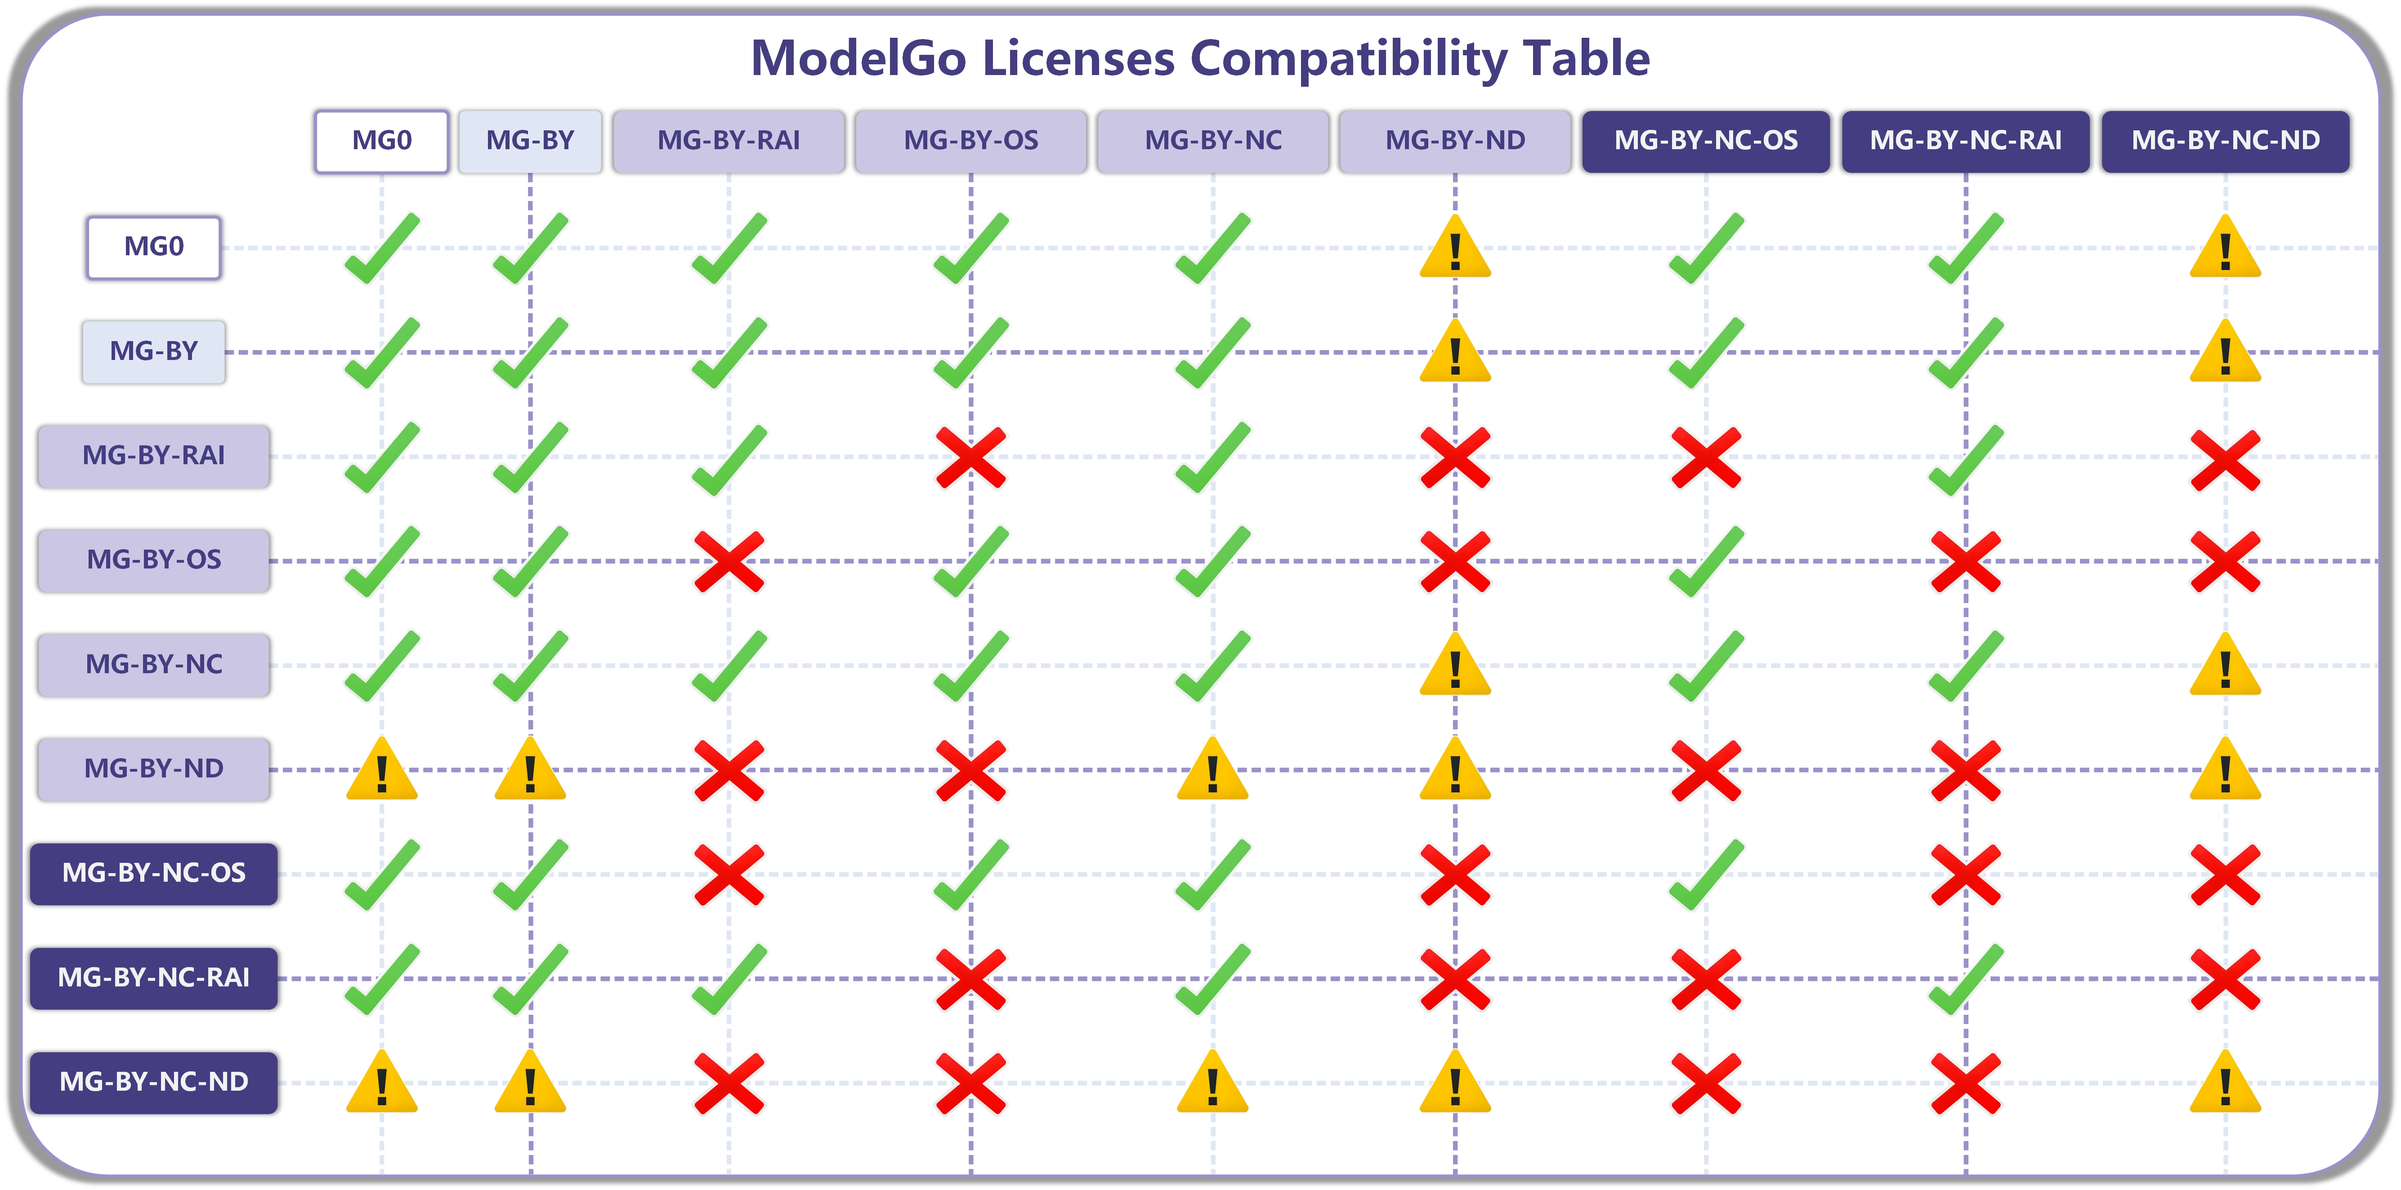
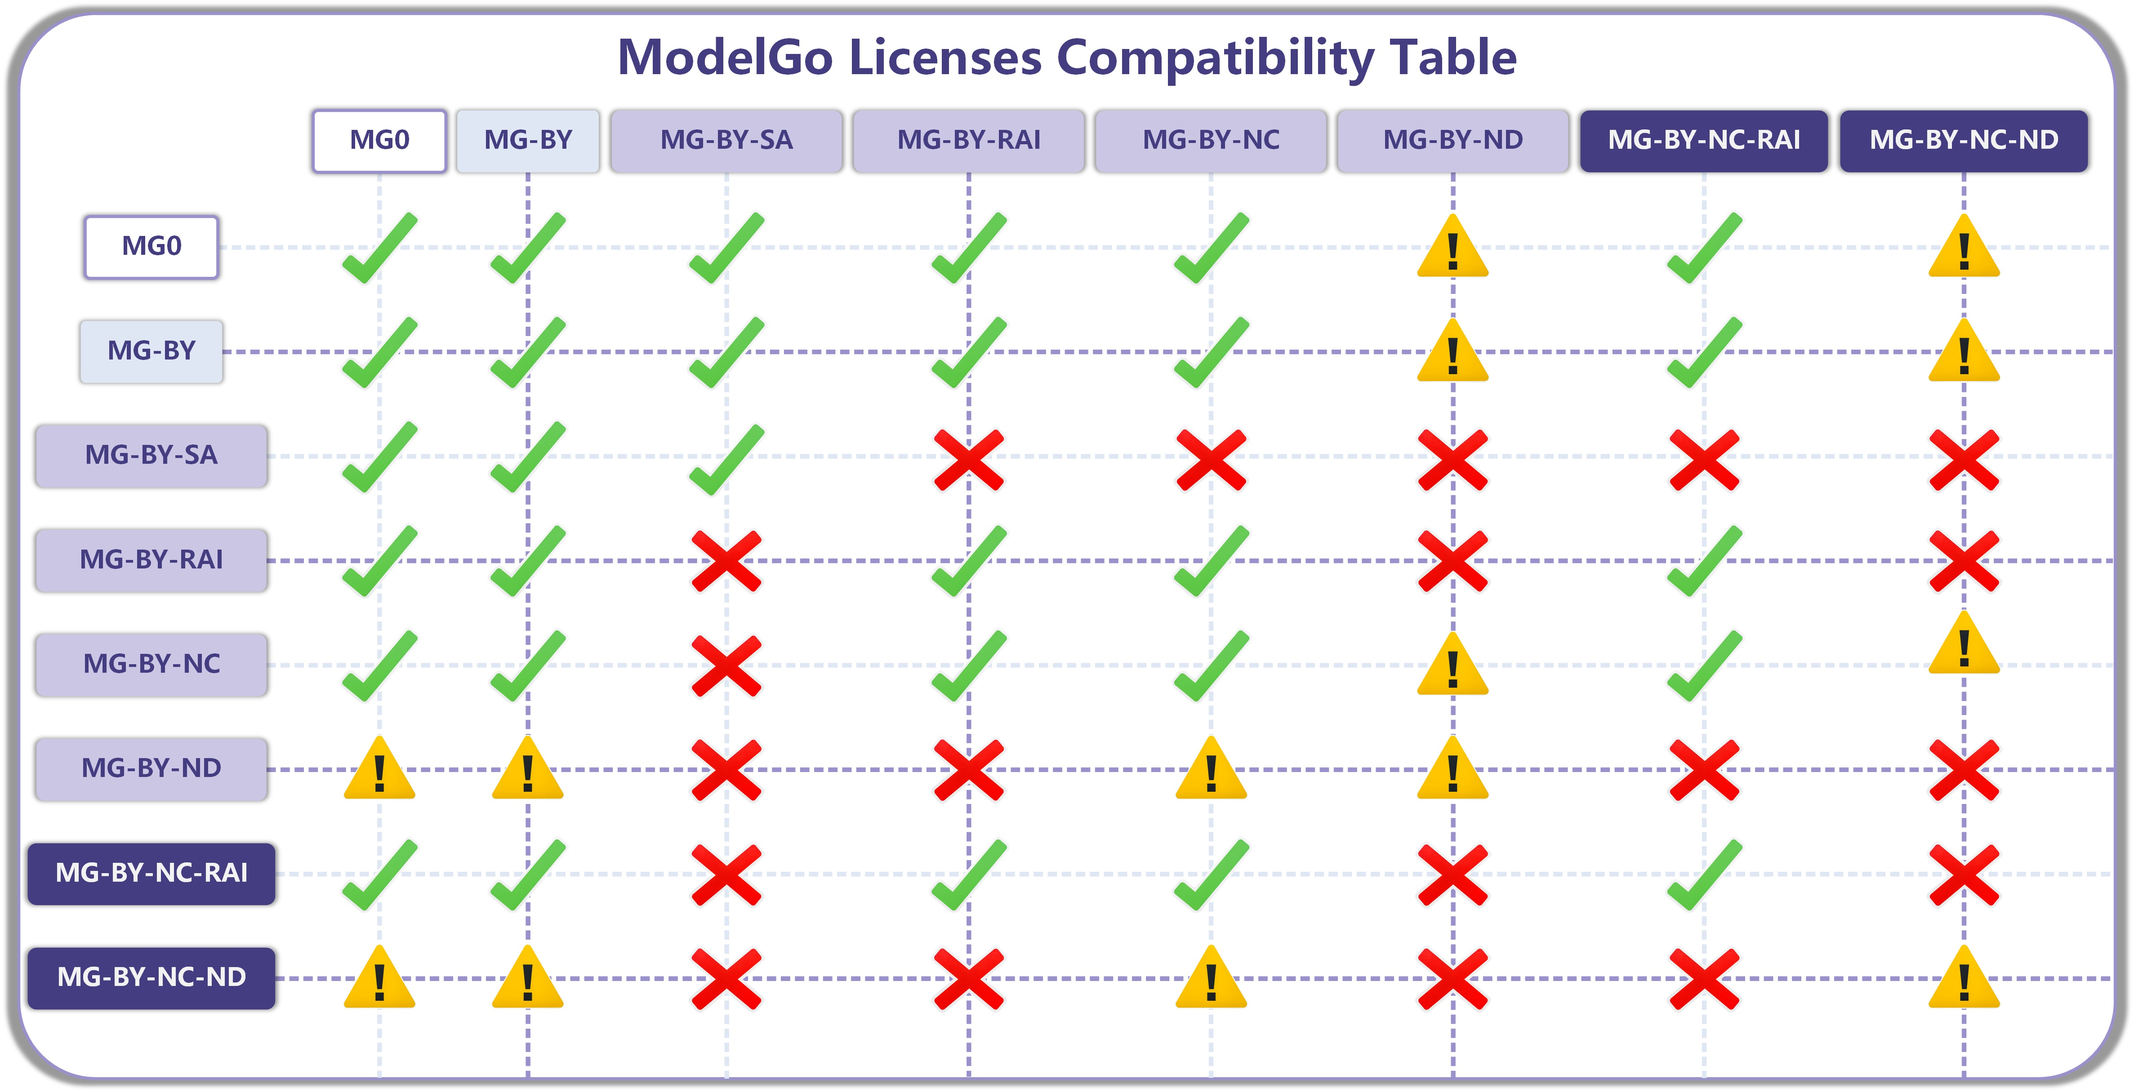
GITBOOK-56: No subject

Changed region(s): [[0.0, 0.0309, 0.9977, 0.9877]]

diff --git a/gitbook/learn-more/faq.md b/gitbook/learn-more/faq.md
@@ -2,7 +2,7 @@
 
 ## Q: Why we need ModelGo licenses?
 
-ModelGo licenses offer flexible options to fulfill your specific licensing needs about using and distributing your deep learning models while protecting your Intellectual Property (IP).
+ModelGo licenses offer flexible licensing elements to fulfill your specific licensing needs about using and distributing your ML models.
 
 <mark style="color:purple;">**Why not use Llama or Gemma Licenses?**</mark> Llama and Gemma licenses are proprietary licenses and assert copyright ownership by Meta and Google. If your project builds on Llama or Gemma, you have no choice but to comply with their original licenses. However, if you own your model and want to publish it while retaining your copyright attribution, you may prefer a public-use license like ModelGo Licenses.
 
@@ -30,23 +30,23 @@ It's worth mentioning that AI2 ImpACT contains copyleft-style use-based restrict
 
 ## Q: What is the scope of ModelGo licenses governing?
 
-MG licenses only apply to the Model, but their terms govern the <mark style="color:purple;">use and distribution of the Model and its derivatives, as well as outputs thereof, and complementary code and scripts</mark>. We classify these objects into three categories to define the scope of terms: Licensed Materials, Derivative Materials, and Output, each with different restriction terms and using policies. For example, according to the terms of MG-BY-ND-2.0, sharing the verbatim copy of Licensed Materials is allowed while sharing any Derivative Materials and Outputs is prohibited.
+MG licenses only apply to the Model, but their terms govern the <mark style="color:purple;">use and distribution of the Model and its derivatives, as well as outputs thereof, and complementary code and scripts</mark>. We classify these objects into three categories to define the scope of terms: Licensed Materials, Derivative Materials, and Output, each with different restriction terms and using policies. For example, according to the terms of MG-BY-ND-2.0, sharing the verbatim copy of Licensed Materials is allowed while sharing any Derivative Materials is prohibited.
 
-MG licenses should not apply to Third-Party Materials (e.g., open-source software and free-content artifacts), system libraries, and datasets (e.g., training set, validation set, test set). This implies that choosing MG with OS does not mandate open-sourcing the data used to develop the model. Due to data privacy concerns and the fact that these datasets or the data samples therein already have free-content licenses (typically CCs), we consider datasets to be outside the scope of MG licenses.
+MG licenses should not apply to Third-Party Materials (e.g., open-source software and free-content artifacts), system libraries, and datasets (e.g., training set, validation set, test set). This implies that choosing MG with SA does not mandate open-sourcing the data used to develop the model. Due to data privacy concerns and the fact that these datasets or the data samples therein already have free-content licenses (typically CCs), we consider datasets to be outside the scope of MG licenses.
 
 <figure><img src="../.gitbook/assets/scope.jpg" alt=""><figcaption><p>MG Governing Scope</p></figcaption></figure>
 
 ## Q: Should I continue using ModelGo Licenses V1?
 
-<mark style="color:purple;">**We suggest not**</mark>. V1 is a remix of existing license texts and may contain unforeseen copyright issues. Additionally, V2 is more comprehensive and includes clauses that better address IP rights in derivatives. We strongly recommend using V2 instead.
+<mark style="color:purple;">**We suggest not.**</mark> V1 is a remix of existing license texts and may contain unforeseen copyright issues. Additionally, V2 is more comprehensive and includes clauses that better address IP rights in derivatives. We strongly recommend using V2 instead.
 
 ## Q: May I distribute the generated content?
 
-<mark style="color:purple;">**It depends.**</mark> You can share the generated content (including the output of the Model and the output of the Derivatives of the Model) only if the <mark style="color:purple;">ND option is not being used</mark>. MG licenses will not be proliferated to the generated content and do not claim copyright over them. However, MG licenses require users to acknowledge that the output contains AI-generated content created by the users using the model. Please refer to the Clause "<mark style="color:purple;">2.4 Output</mark>" for more information.
+<mark style="color:purple;">**Of course yes.**</mark> MG licenses will not be proliferated to the generated content and do not claim copyright over them. However, MG with NC and ND require users to include a notice of the provenance model used to generate this content if they are collected and published as a dataset. Please refer to the Clause "<mark style="color:purple;">2.2 Conditions (b)</mark>" for more information.
 
 ## Q: Should I retain the attribution information in the generated content?
 
-<mark style="color:purple;">**No.**</mark> The BY options in MG only apply to the model and its derivatives (excluding code and scripts which may already be covered by separate OSS licenses). MG licenses only require users to acknowledge that the output contains AI-generated content created by the users using the model.
+<mark style="color:purple;">**It depends.**</mark> The BY options in MG only apply to the model and its derivatives (excluding code and scripts which may already be covered by separate OSS licenses). But MG with NC and ND require users to include a notice of the provenance model used to generate this content if they are collected and published as a dataset.
 
 ## Q: Revocable vs. Irrevocable;  Sublicensable vs. Non-sublicensable.
 
@@ -60,25 +60,25 @@ Intellectual Property (IP) encompasses patents, copyrights, and trademarks.  Mos
 
 <table><thead><tr><th width="331">License Name</th><th width="200">Revocable?</th><th>Sublicensable?</th></tr></thead><tbody><tr><td>Apache-2.0</td><td>No</td><td>Yes</td></tr><tr><td>CodeML-OpenRAIL-M</td><td>No</td><td>Yes</td></tr><tr><td>CreativeML-OpenRAIL-M</td><td>No</td><td>Yes</td></tr><tr><td>GPL-3.0 (Copyleft)</td><td>No</td><td>Auto Licensing</td></tr><tr><td>CC-BY-4.0</td><td>No</td><td>Auto Licensing</td></tr><tr><td>Llama License Agreement</td><td>Yes</td><td>No ✤</td></tr><tr><td>SEER License Agreement</td><td>Yes</td><td>No ✤</td></tr><tr><td>AFL-3.0</td><td><mark style="color:orange;">Not Stated</mark></td><td>Yes</td></tr><tr><td>Llama2 Community License</td><td><mark style="color:orange;">Not Stated</mark></td><td><mark style="color:orange;">Not Stated</mark></td></tr><tr><td>AI2 ImpACT License (LR, MR, HR)</td><td><mark style="color:orange;">Not Stated</mark></td><td><mark style="color:orange;">Not Stated</mark></td></tr></tbody></table>
 
-**NOTE:** CC licenses are designed to grant copyright licenses for content, so the granting of patent use is not applicable. <mark style="color:orange;">Not Stated:</mark> a license does not explicitly state its revocability, it is generally understood to be implicitly revocable. ✤: These licenses implicitly include automatic licensing clauses. Auto Licensing means the recipient automatically receives a license from the original licensors whilie sublicensing is not allowed and unnecessary.
+**NOTE:** CC licenses are designed to grant copyright licenses for content, so the granting of patent use is not applicable. <mark style="color:orange;">Not Stated:</mark> a license does not explicitly state its revocability, it is generally understood to be implicitly revocable. ✤: These licenses implicitly include automatic licensing clauses. Auto Licensing means the recipient automatically receives a license from the original licensors whilie sublicensing is  unnecessary.
 
 
 
-ModelGo licenses determine revocability and sublicensing with careful consideration of their target scenarios (see table below). For NC and ND, our aim is to maximize licensee control and ensure all licenses can be revoked. Therefore, we adopt an automated licensing mechanism (with no sublicensor in this case, all licenses will be terminated if the head license is revoked) instead of sublicensing. The exception is OS, we also prioritize protecting the benefits of contributors, making OS licenses irrevocable and [copyleft](https://en.wikipedia.org/wiki/Copyleft). As for other very permissive licenses like MG0 and MG-BY, which encourage sharing and free use, they are irrevocable and allow sublicensing.
+ModelGo licenses determine revocability and sublicensing with careful consideration of their target scenarios (see table below). For NC and ND, our aim is to maximize licensee control and ensure all licenses can be revoked. Therefore, we adopt an automated licensing mechanism (with no sublicensor in this case, all licenses will be terminated if the head license is revoked) instead of sublicensing. The exception is SA, we also prioritize protecting the benefits of contributors, making SA licenses irrevocable and [copyleft](https://en.wikipedia.org/wiki/Copyleft). As for other very permissive licenses like MG0 and MG-BY, which encourage sharing and free use, they are irrevocable and allow sublicensing.
 
 <mark style="color:purple;">**Grant of patent and copyright licenses in ModelGo:**</mark>
 
-<table><thead><tr><th width="331">License Name</th><th width="200">Revocable?</th><th>Sublicensable?</th></tr></thead><tbody><tr><td>MG0</td><td>No</td><td>Yes</td></tr><tr><td>MG-BY</td><td>No</td><td>Yes</td></tr><tr><td>MG-BY-OS (Copyleft)</td><td>No</td><td>Yes</td></tr><tr><td>MG-BY-NC-OS (Copyleft)</td><td>No</td><td>Auto Licensing</td></tr><tr><td>MG-BY-RAI</td><td>Yes</td><td>Yes</td></tr><tr><td>MG-BY-NC</td><td>Yes</td><td>Auto Licensing</td></tr><tr><td>MG-BY-ND</td><td>Yes</td><td>Auto Licensing</td></tr><tr><td>MG-BY-NC-ND</td><td>Yes</td><td>Auto Licensing</td></tr><tr><td>MG-BY-NC-RAI</td><td>Yes</td><td>Auto Licensing</td></tr></tbody></table>
+<table><thead><tr><th width="331">License Name</th><th width="200">Revocable?</th><th>Sublicensable?</th></tr></thead><tbody><tr><td>MG0</td><td>No</td><td>Yes</td></tr><tr><td>MG-BY</td><td>No</td><td>Yes</td></tr><tr><td>MG-BY-SA (Copyleft)</td><td>No</td><td>No</td></tr><tr><td>MG-BY-RAI</td><td>Yes</td><td>No</td></tr><tr><td>MG-BY-NC</td><td>Yes</td><td>No</td></tr><tr><td>MG-BY-ND</td><td>Yes</td><td>No</td></tr><tr><td>MG-BY-NC-ND</td><td>Yes</td><td>No</td></tr><tr><td>MG-BY-NC-RAI</td><td>Yes</td><td>No</td></tr></tbody></table>
 
 ModelGo licenses explicitly state whether they grant or do not grant licensee patent and copyright licenses. This clarity ensures that model users understand their rights and potential risks when reusing and contributing models.
 
-## Q: Are MG licenses with OS considered Open Source licenses?
+## Q: Are MG-BY-SA considered Open Source licenses?
 
-<mark style="color:purple;">**No.**</mark> ModelGo licenses are not approved by the Open Source Initiative (OSI). However, we aim for MG-BY-OS-2.0 and MG-BY-NC-OS-2.0 licenses to keep the model "open." It's also worth mentioning that the meaning of "open" may differ between software and models. In ModelGo licenses, OS means the availability of **Licensed Materials** and **Derivative Materials**, excluding the openness of the dataset (as we consider it outside the governing scope of MG licenses).
+<mark style="color:purple;">**Currently, no.**</mark> None of the variants of the ModelGo licenses have been approved by the Open Source Initiative (OSI) yet. However, we aim for MG-BY-SA-2.0 to keep the model "open." It's also worth mentioning that the meaning of "open" may differ between software and models. In ModelGo licenses, SA means the availability of **Licensed Materials** and **Derivative Materials**, excluding the openness of the dataset (as we consider it outside the governing scope of MG licenses).
 
-## Q: May I close source my models licensed under MG with OS?
+## Q: May I close source my models licensed under MG with SA?
 
-<mark style="color:purple;">**No.**</mark> This applies to its derivatives as well. MG-BY-OS-2.0 and MG-BY-NC-OS-2.0 are copyleft licenses, meaning all derivative works must also be covered by the same license. You also can't revoke MG-BY-OS-2.0 and MG-BY-NC-OS-2.0, unlike GPL-3.0, which doesn't explicitly claim the granted patent license is irrevocable.
+<mark style="color:purple;">**No.**</mark> This applies to its derivatives as well. MG-BY-SA-2.0 is a copyleft license, meaning all derivative works must also be covered by the same license. You also can't revoke MG-BY-SA-2.0, unlike GPL-3.0, which doesn't explicitly claim the granted patent license is irrevocable.
 
 ## Q: Will ModelGo licenses support more licensing options?
 
@@ -86,7 +86,7 @@ ModelGo licenses explicitly state whether they grant or do not grant licensee pa
 
 ## Q: May I reuse ModelGo licenses text to make my own licenses?
 
-<mark style="color:purple;">**Yes, you can.**</mark> ModelGo licenses explicitly allow you to do so as stated in Section 7, provided that you furnish a readable notice describing your modifications to the original ModelGo licenses. However, we encourage using the licensing options most appropriate for your publishing scenario to facilitate standardization in model licensing and simplify license analysis in ML projects.
+<mark style="color:purple;">**Yes, you can.**</mark> ModelGo licenses explicitly allow you to do so as stated in Section "MODIFICATION OF THIS LICENSE", provided that you furnish a readable notice describing your modifications to the original ModelGo licenses. However, we encourage using the licensing options most appropriate for your publishing scenario to facilitate standardization in model licensing and simplify license analysis in ML projects.
 
 ## Q: Will my modification to Model Sheet take effect?
 
@@ -104,13 +104,13 @@ In the second scenario, where the remixing process results in an inseparable out
 
 Choose two models' licenses you want to remix from the rows and columns. The ✅ mark means you can remix the two models, and there is a feasible licensing solution for relicensing your remix results; ⚠ mark means due to the terms of NoDerivatives, you can't share your remix results, which leads to you being unable to apply any license to the results; ❌ mark means there isn't a feasible licensing solution for such remixing, so you should follow the terms regarding derivatives of original licenses but can't relicense your remix results.
 
-For example, if we remix two models licensed under MG-BY-NC and MG-BY-OS, respectively, we can relicense the remix results to MG-BY-NC-OS. If we want to remix models with MG-BY and MG-BY-ND, even though it seems feasible to apply MG-BY-ND to the remixing results, following the NoDerivatives terms of MG-BY-ND, we can't share such remixing, which leads to no license being applicable. If we want to remix MG-BY-OS and MG-BY-RAI, the problem is there are no feasible licensing solutions for the remix results, so such remix is not supported by ModelGo licenses.
+For example, if we remix two models licensed under MG-BY-NC and MG-BY-SA respectively, we can relicense the remix results to MG-BY-NC-SA. If we want to remix models with MG-BY and MG-BY-ND, even though it seems feasible to apply MG-BY-ND to the remixing results, following the NoDerivatives terms of MG-BY-ND, we can't share such remixing, which leads to no license being applicable. If we want to remix MG-BY-OS and MG-BY-RAI, the problem is there are no feasible licensing solutions for the remix results, so such remix is not supported by ModelGo licenses.
 
 Overall, in most cases, you can freely remix permissive MG licensed models into your model without conflicts, and remix conditional MG licensed models into your model if following the same restrictions, but it's difficult to remix stringent MG licensed models and impossible to remix MG with ND licensed models.
 
-## Q: Why do ModelGo licenses not support OS with RAI?
+## Q: Why do ModelGo licenses not support SA with RAI?
 
-Following our previous [ML license analysis study](https://github.com/Xtra-Computing/ModelGo), the copyleft-style use-based restrictions in RAI licenses are incompatible with the terms regarding further restrictions in Section 10 of GPL-3.0. Therefore, with concerns that the RAI kind restrictions are out of the spirit of Open Source and potentially lead to closed source (Ref. Greenbaum, E. (2015). The Non-Discrimination Principle in Open Source Licensing. Cardozo L. Rev., 37, 1297), we didn't draft the MG-BY-OS-RAI license.
+Following our previous [ML license analysis study](https://github.com/Xtra-Computing/ModelGo), the copyleft-style use-based restrictions in RAI licenses are incompatible with the terms regarding further restrictions in Section 10 of GPL-3.0. Therefore, with concerns that the RAI kind restrictions are out of the spirit of Open Source and potentially lead to closed source (Ref. Greenbaum, E. (2015). The Non-Discrimination Principle in Open Source Licensing. Cardozo L. Rev., 37, 1297), we didn't draft the MG-BY-SA-RAI license.
 
 > ### GPL-3.0 Section 10
 >

diff --git a/gitbook/learn-more/faq-1.md b/gitbook/learn-more/faq-1.md
@@ -96,7 +96,7 @@ In the first scenario, where the two models remain separable from each other, su
 
 In the second scenario, where the remixing process results in an inseparable outcome (for example, weight averaging, model fusion, layer concatenation, etc.), it is necessary to check the compatibility between the two original licenses of the base models before remixing. There is a one-way compatibility in MG licenses from Permissive to Conditional to Stringent. This means that the remixing result can be licensed under MG with stricter options, but fewer options are not permitted. We provide you a compatibility table to demonstrate this rule:
 
-<div data-full-width="false"><figure><img src="../.gitbook/assets/compati.jpg" alt=""><figcaption><p>MG Compatibility Table</p></figcaption></figure></div>
+<div data-full-width="false"><figure><img src="broken-reference" alt=""><figcaption><p>MG Compatibility Table</p></figcaption></figure></div>
 
 Choose two models' licenses you want to remix from the rows and columns. The ✅ mark means you can remix the two models, and there is a feasible licensing solution for relicensing your remix results; ⚠ mark means due to the terms of NoDerivatives, you can't share your remix results, which leads to you being unable to apply any license to the results; ❌ mark means there isn't a feasible licensing solution for such remixing, so you should follow the terms regarding derivatives of original licenses but can't relicense your remix results.
 
